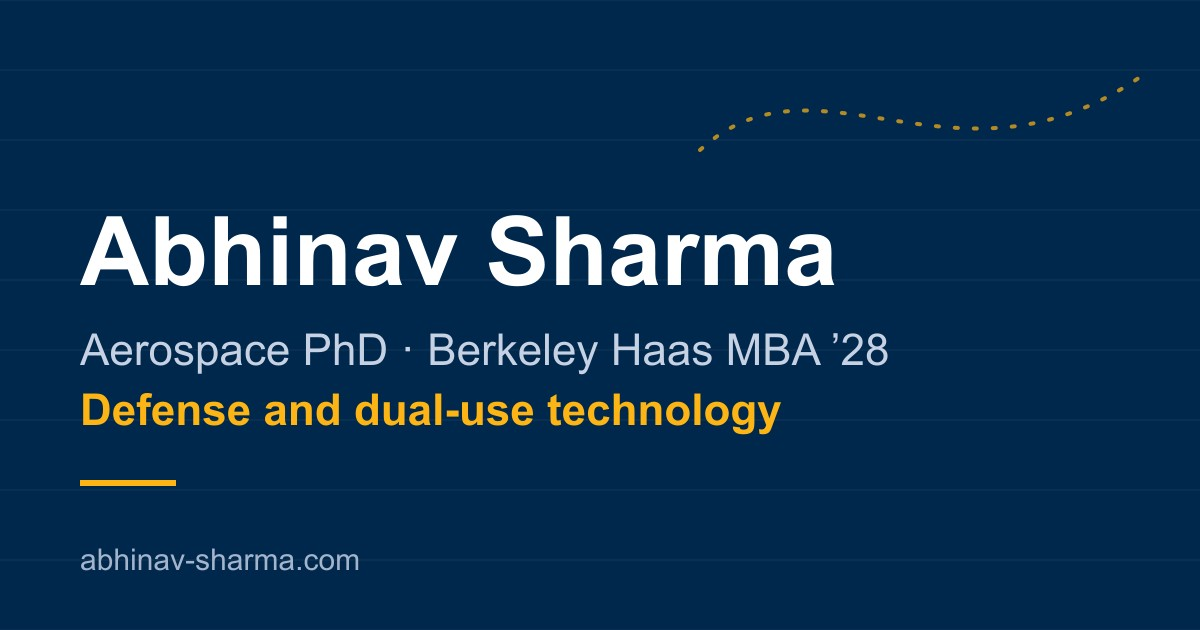
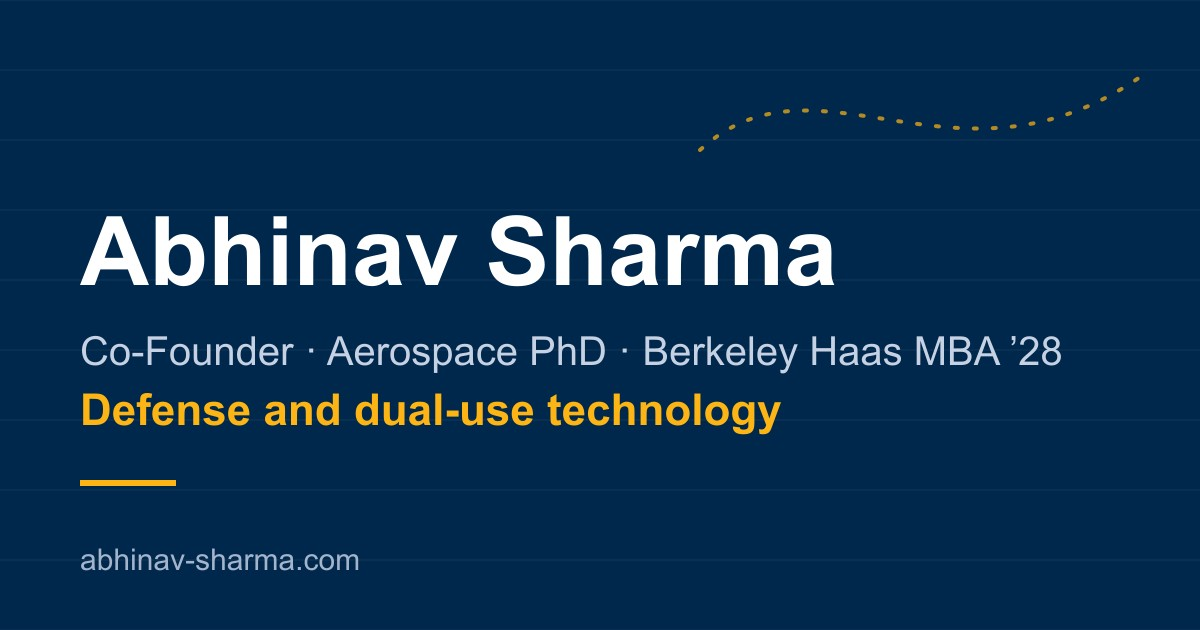
Apply founder and business-development positioning from the branding audit
Hero: two equal-weight statements led by what he did (found the
opportunities, led the team and the technical proposals that won Continuum
Dynamics $1.45M in NASA and DoD contracts, developed the software and analyses
himself) and continued with also a co-founder and Berkeley Haas MBA candidate.
The contract total is now attributed to the company.

Chips: lead with six years in R and D and business development. Projects:
reorder so the government wins lead and the ship simulation is last; card 1
says he assembled and led the team; card 3 names the competitive NASA SBIR
Phase I; card 4 drops the unconfirmed discipline list. Section heading is now
What I have won, led, and built. The direction and background copy no longer
frames him as still learning.

Metadata: title, description, social card, and image alt now say Co-Founder to
match the LinkedIn headline. The venture is not named.

Changed region(s): [[0.0617, 0.5127, 0.8942, 0.6032]]

diff --git a/index.html b/index.html
@@ -3,8 +3,8 @@
 <head>
 <meta charset="UTF-8">
 <meta name="viewport" content="width=device-width, initial-scale=1.0">
-<title>Abhinav Sharma | Aerospace Engineering PhD, Berkeley Haas MBA ’28</title>
-<meta name="description" content="Aerospace PhD (rotorcraft, simulation, optimization) with six years of NASA- and DoD-funded R&amp;D. Now at Berkeley Haas, focused on defense and dual-use technology.">
+<title>Abhinav Sharma | Co-Founder, Aerospace PhD, Berkeley Haas MBA ’28</title>
+<meta name="description" content="Co-founder, Berkeley Haas MBA candidate, aerospace PhD. Led proposals and technical work behind $1.45M in NASA and DoD contracts; focused on defense and dual-use technology.">
 <link rel="canonical" href="https://abhinav-sharma.com/">
 <link rel="icon" type="image/svg+xml" href="/favicon.svg">
 <link rel="apple-touch-icon" href="/apple-touch-icon.png">
@@ -14,20 +14,20 @@
 
 <meta property="og:type" content="website">
 <meta property="og:site_name" content="Abhinav Sharma">
-<meta property="og:title" content="Abhinav Sharma | Aerospace Engineering PhD, Berkeley Haas MBA ’28">
-<meta property="og:description" content="Aerospace PhD (rotorcraft, simulation, optimization) with six years of NASA- and DoD-funded R&amp;D. Now at Berkeley Haas, focused on defense and dual-use technology.">
+<meta property="og:title" content="Abhinav Sharma | Co-Founder, Aerospace PhD, Berkeley Haas MBA ’28">
+<meta property="og:description" content="Co-founder, Berkeley Haas MBA candidate, aerospace PhD. Led proposals and technical work behind $1.45M in NASA and DoD contracts; focused on defense and dual-use technology.">
 <meta property="og:url" content="https://abhinav-sharma.com/">
 <meta property="og:image" content="https://abhinav-sharma.com/og-image-v2.jpg">
 <meta property="og:image:width" content="1200">
 <meta property="og:image:height" content="630">
-<meta property="og:image:alt" content="Abhinav Sharma. Aerospace PhD, Berkeley Haas MBA ’28. Defense and dual-use technology.">
+<meta property="og:image:alt" content="Abhinav Sharma. Co-Founder, aerospace PhD, Berkeley Haas MBA ’28. Defense and dual-use technology.">
 <meta name="twitter:card" content="summary_large_image">
-<meta name="twitter:title" content="Abhinav Sharma | Aerospace Engineering PhD, Berkeley Haas MBA ’28">
-<meta name="twitter:description" content="Aerospace PhD (rotorcraft, simulation, optimization) with six years of NASA- and DoD-funded R&amp;D. Now at Berkeley Haas, focused on defense and dual-use technology.">
+<meta name="twitter:title" content="Abhinav Sharma | Co-Founder, Aerospace PhD, Berkeley Haas MBA ’28">
+<meta name="twitter:description" content="Co-founder, Berkeley Haas MBA candidate, aerospace PhD. Led proposals and technical work behind $1.45M in NASA and DoD contracts; focused on defense and dual-use technology.">
 <meta name="twitter:image" content="https://abhinav-sharma.com/og-image-v2.jpg">
-<meta name="twitter:image:alt" content="Abhinav Sharma. Aerospace PhD, Berkeley Haas MBA ’28. Defense and dual-use technology.">
+<meta name="twitter:image:alt" content="Abhinav Sharma. Co-Founder, aerospace PhD, Berkeley Haas MBA ’28. Defense and dual-use technology.">
 
-<script type="application/ld+json">{"@context":"https://schema.org","@type":"Person","name":"Abhinav Sharma","description":"Aerospace PhD (rotorcraft, simulation, optimization) with six years of NASA- and DoD-funded R&D. Now at Berkeley Haas, focused on defense and dual-use technology.","url":"https://abhinav-sharma.com","@id":"https://abhinav-sharma.com/#person","image":"https://abhinav-sharma.com/img/portrait.webp","jobTitle":"MBA Candidate","alumniOf":[{"@type":"CollegeOrUniversity","name":"University of Michigan","url":"https://umich.edu"},{"@type":"CollegeOrUniversity","name":"University of Iowa","url":"https://uiowa.edu"}],"affiliation":{"@type":"CollegeOrUniversity","name":"UC Berkeley Haas School of Business","url":"https://haas.berkeley.edu"},"memberOf":{"@type":"Organization","name":"Vertical Flight Society","url":"https://vtol.org"},"knowsAbout":["Rotorcraft flight dynamics","Multidisciplinary design optimization","Modeling and simulation","Flight controls","Advanced air mobility"],"sameAs":["https://www.linkedin.com/in/ab-sharma/","https://scholar.google.com/citations?user=qXDfIR0AAAAJ&hl=en"]}</script>
+<script type="application/ld+json">{"@context":"https://schema.org","@type":"Person","name":"Abhinav Sharma","description":"Co-founder, Berkeley Haas MBA candidate, aerospace PhD. Led proposals and technical work behind $1.45M in NASA and DoD contracts; focused on defense and dual-use technology.","url":"https://abhinav-sharma.com","@id":"https://abhinav-sharma.com/#person","image":"https://abhinav-sharma.com/img/portrait.webp","jobTitle":"MBA Candidate","alumniOf":[{"@type":"CollegeOrUniversity","name":"University of Michigan","url":"https://umich.edu"},{"@type":"CollegeOrUniversity","name":"University of Iowa","url":"https://uiowa.edu"}],"affiliation":{"@type":"CollegeOrUniversity","name":"UC Berkeley Haas School of Business","url":"https://haas.berkeley.edu"},"memberOf":{"@type":"Organization","name":"Vertical Flight Society","url":"https://vtol.org"},"knowsAbout":["Rotorcraft flight dynamics","Multidisciplinary design optimization","Modeling and simulation","Flight controls","Advanced air mobility"],"sameAs":["https://www.linkedin.com/in/ab-sharma/","https://scholar.google.com/citations?user=qXDfIR0AAAAJ&hl=en"]}</script>
 </head>
 <body class="">
 
@@ -53,8 +53,8 @@
       <div class="hero-copy">
         <p class="hero-name">Abhinav Sharma</p>
         <h1>
-          <span class="hero-line">I&rsquo;m an aerospace engineer who found the opportunities, led the proposals that won $1.45M in NASA and DoD contracts, and did the technical work.</span>
-          <span class="hero-line">Now I&rsquo;m a Berkeley Haas MBA candidate and co-founder, working to get defense technology from R&amp;D to the warfighter.</span>
+          <span class="hero-line">I found the opportunities, led the team and the technical proposals that won Continuum Dynamics $1.45M in NASA and DoD contracts, and developed the software and analyses myself.</span>
+          <span class="hero-line">I&rsquo;m also a co-founder and Berkeley Haas MBA candidate, working to get defense technology from R&amp;D to the warfighter.</span>
         </h1>
         <div class="hero-actions">
           <a class="btn btn-primary" href="#projects">View projects</a>
@@ -66,10 +66,10 @@
       </figure>
     </div>
     <ul class="hero-credibility">
-      <li>PhD in aerospace engineering</li>
-      <li>Research funded by the Navy, Army, and NASA</li>
+      <li>Six years in R&amp;D and business development</li>
       <li>Army STTR taken from Phase I to Phase II</li>
-      <li>Berkeley Haas MBA ’28</li>
+      <li>Research funded by the Navy, Army, and NASA</li>
+      <li>Aerospace PhD, Berkeley Haas MBA ’28</li>
     </ul>
   </div>
 </section>
@@ -79,7 +79,7 @@
     
 <div class="section-head">
   <p class="kicker">Selected projects</p>
-  <h2 class="section-title">What I&rsquo;ve built and led</h2>
+  <h2 class="section-title">What I&rsquo;ve won, led, and built</h2>
   
 </div>
     <div class="project-grid">
@@ -88,12 +88,38 @@
   <div class="project-card-body">
     <p class="project-card-context">U.S. Army STTR · Phase I to Phase II · 2022–2025</p>
     <h3>Adaptive Aircraft Design and Optimization</h3>
-    <p>I found the opportunity, assembled a six-person team across Continuum Dynamics and the University of Michigan, and led the proposals from start to finish. I also did the technical work: I developed a Python optimization framework for morphing UAVs, aircraft whose wings change shape in flight, with Army Research Laboratory researchers and delivered it to ARL for its morphing-aircraft research. The program grew from a ~$173K Phase I to a ~$1.15M Phase II.</p>
+    <p>I found the opportunity, assembled and led a six-person team across Continuum Dynamics and the University of Michigan, and led the technical proposals end to end. I also developed the Python optimization framework for morphing UAVs, aircraft whose wings change shape in flight, with Army Research Laboratory researchers and delivered it to ARL for its morphing-aircraft research. The program grew from a ~$173K Phase I to a ~$1.15M Phase II.</p>
     <p class="project-card-links"><a href="https://www.sbir.gov/awards/198170" target="_blank" rel="noopener">Phase I award<span aria-hidden="true"> &nearr;</span><span class="visually-hidden"> (opens in a new tab)</span></a><a href="https://www.sbir.gov/awards/209552" target="_blank" rel="noopener">Phase II award<span aria-hidden="true"> &nearr;</span><span class="visually-hidden"> (opens in a new tab)</span></a><a href="https://doi.org/10.2514/6.2025-3626" target="_blank" rel="noopener">AIAA Aviation 2025 paper<span aria-hidden="true"> &nearr;</span><span class="visually-hidden"> (opens in a new tab)</span></a></p>
   </div>
   <figure class="project-card-media">
     <img src="/img/morphing-aircraft-card.webp" srcset="/img/morphing-aircraft-card-sm.webp 640w, /img/morphing-aircraft-card.webp 1200w" sizes="(min-width: 861px) 50vw, 100vw" alt="AI-generated illustration of a twin-boom morphing UAV with ghost images of alternate wing shapes along a dashed orange trajectory." width="1200" height="675" loading="lazy">
     <figcaption>AI-generated illustration of a morphing-wing UAV whose trajectory and structure are optimized together. Not a specific aircraft.</figcaption>
+  </figure>
+</article>
+      
+<article class="project-card">
+  <div class="project-card-body">
+    <p class="project-card-context">NASA SBIR Phase I · 2021</p>
+    <h3>Designing the Aircraft and the Controller Together</h3>
+    <p>Designers often address flight-control requirements after the airframe is largely fixed. I led the technical proposal that won this competitive NASA SBIR Phase I (~$125K), then did the technical work: treating flight controls as part of the design from the start, using multidisciplinary design optimization (MDO) for an aircraft with distributed electric propulsion (DEP).</p>
+    <p class="project-card-links"><a href="https://www.sbir.gov/node/2116627" target="_blank" rel="noopener">NASA SBIR award<span aria-hidden="true"> &nearr;</span><span class="visually-hidden"> (opens in a new tab)</span></a><a href="https://doi.org/10.2514/6.2023-1364" target="_blank" rel="noopener">AIAA SciTech 2023 paper<span aria-hidden="true"> &nearr;</span><span class="visually-hidden"> (opens in a new tab)</span></a></p>
+  </div>
+  <figure class="project-card-media">
+    <img src="/img/dep-aircraft-card.webp" srcset="/img/dep-aircraft-card-sm.webp 640w, /img/dep-aircraft-card.webp 1200w" sizes="(min-width: 861px) 50vw, 100vw" alt="AI-generated illustration of a distributed electric propulsion aircraft on approach, with eight leading-edge propellers and white slipstream lines over the wing." width="1200" height="675" loading="lazy">
+    <figcaption>AI-generated illustration of a distributed electric propulsion concept, not a specific aircraft.</figcaption>
+  </figure>
+</article>
+      
+<article class="project-card">
+  <div class="project-card-body">
+    <p class="project-card-context">Continuum Dynamics · Research and commercial</p>
+    <h3>Advanced Air Mobility Modeling and Simulation</h3>
+    <p>I found the business: through networking and cold outreach, I won two advanced air mobility startups as clients, ~$100K in new revenue for Continuum Dynamics (clients unnamed). I then did the aircraft design and performance analyses for them.</p>
+    
+  </div>
+  <figure class="project-card-media">
+    <img src="/img/aam-tiltwing-card.webp" srcset="/img/aam-tiltwing-card-sm.webp 640w, /img/aam-tiltwing-card.webp 1200w" sizes="(min-width: 861px) 50vw, 100vw" alt="AI-generated illustration of a six-propeller tiltwing aircraft in transition flight, with airflow streamlines over the wing." width="1200" height="675" loading="lazy">
+    <figcaption>AI-generated illustration of a tiltwing concept, not a specific aircraft.</figcaption>
   </figure>
 </article>
       
@@ -109,32 +135,6 @@
     <figcaption>AI-generated illustration of a UH-60 over a moving flight deck. The UH-60A is the aircraft I modeled in my research.</figcaption>
   </figure>
 </article>
-      
-<article class="project-card">
-  <div class="project-card-body">
-    <p class="project-card-context">NASA SBIR Phase I · 2021</p>
-    <h3>Designing the Aircraft and the Controller Together</h3>
-    <p>Designers often address flight-control requirements after the airframe is largely fixed. I led the proposal that won this NASA SBIR Phase I, then did the technical work: treating flight controls as part of the design from the start, using multidisciplinary design optimization (MDO) for an aircraft with distributed electric propulsion (DEP).</p>
-    <p class="project-card-links"><a href="https://www.sbir.gov/node/2116627" target="_blank" rel="noopener">NASA SBIR award<span aria-hidden="true"> &nearr;</span><span class="visually-hidden"> (opens in a new tab)</span></a><a href="https://doi.org/10.2514/6.2023-1364" target="_blank" rel="noopener">AIAA SciTech 2023 paper<span aria-hidden="true"> &nearr;</span><span class="visually-hidden"> (opens in a new tab)</span></a></p>
-  </div>
-  <figure class="project-card-media">
-    <img src="/img/dep-aircraft-card.webp" srcset="/img/dep-aircraft-card-sm.webp 640w, /img/dep-aircraft-card.webp 1200w" sizes="(min-width: 861px) 50vw, 100vw" alt="AI-generated illustration of a distributed electric propulsion aircraft on approach, with eight leading-edge propellers and white slipstream lines over the wing." width="1200" height="675" loading="lazy">
-    <figcaption>AI-generated illustration of a distributed electric propulsion concept, not a specific aircraft.</figcaption>
-  </figure>
-</article>
-      
-<article class="project-card">
-  <div class="project-card-body">
-    <p class="project-card-context">Continuum Dynamics · Research and commercial</p>
-    <h3>Advanced Air Mobility Modeling and Simulation</h3>
-    <p>I found the business: through networking and cold outreach, I won two advanced air mobility startups as clients, ~$100K in new revenue for Continuum Dynamics (clients unnamed). I then did the aircraft design and performance analyses, spanning flight mechanics, interactional aerodynamics, controls, and performance.</p>
-    
-  </div>
-  <figure class="project-card-media">
-    <img src="/img/aam-tiltwing-card.webp" srcset="/img/aam-tiltwing-card-sm.webp 640w, /img/aam-tiltwing-card.webp 1200w" sizes="(min-width: 861px) 50vw, 100vw" alt="AI-generated illustration of a six-propeller tiltwing aircraft in transition flight, with airflow streamlines over the wing." width="1200" height="675" loading="lazy">
-    <figcaption>AI-generated illustration of a tiltwing concept, not a specific aircraft.</figcaption>
-  </figure>
-</article>
     </div>
   </div>
 </section>
@@ -145,12 +145,12 @@
 <div class="section-head">
   <p class="kicker">Current direction</p>
   <h2 class="section-title">What happens after the technology works</h2>
-  <p class="section-dek">After years developing technology, I got curious about who owns the problem, who pays for it, and why good technology stalls after R&amp;D.</p>
+  <p class="section-dek">I&rsquo;ve worked the contractor side of government R&amp;D. What I want to work on now is what happens after it: who owns the problem, who pays for it, and why good technology stalls.</p>
 </div>
     <div class="theme-grid">
-      <div class="theme-card"><h3>Defense and dual-use technology</h3><p>My starting point is R&amp;D funded by the Navy and Army. I&rsquo;m learning how defense capabilities are developed, bought, integrated, and fielded.</p></div>
+      <div class="theme-card"><h3>Defense and dual-use technology</h3><p>I know how defense R&amp;D gets funded and won: finding the opportunity, shaping the concept, and winning the award. I&rsquo;m now working on how capabilities are bought, integrated, and fielded.</p></div>
       <div class="theme-card"><h3>Autonomous and complex physical systems</h3><p>I&rsquo;ve worked on flight dynamics, controls, and design optimization for adaptive aircraft. I&rsquo;m interested in where those meet autonomy, software, and real-world deployment.</p></div>
-      <div class="theme-card"><h3>Technology transition and adoption</h3><p>I completed NSF I-Corps customer discovery with a team at Berkeley, interviewing customers to test assumptions.</p></div>
+      <div class="theme-card"><h3>Technology transition and adoption</h3><p>As a co-founder, I completed NSF I-Corps customer discovery with my team at Berkeley, interviewing customers to test assumptions.</p></div>
     </div>
   </div>
 </section>
@@ -164,7 +164,7 @@
   
 </div>
     <p>I did my PhD at the University of Michigan on shipboard helicopter operations, supported by the Office of Naval Research. I then spent six years at Continuum Dynamics, an applied aerospace R&amp;D firm, in R&amp;D and business development.</p>
-    <p>Engineering and business development gave me depth on the technical and government-contracting sides. Haas is helping with the rest: customer need, product, organization, and adoption.</p>
+    <p>Engineering and business development gave me depth on the technical and government-contracting sides. I&rsquo;m at Haas to close the gap between developing defense technology and getting it to the people who use it: customer need, product, organization, and adoption.</p>
     <p class="background-affiliation">Elected member, Vertical Flight Society Modeling &amp; Simulation Technical Committee</p>
   </div>
 </section>

diff --git a/pages/home.js b/pages/home.js
@@ -12,8 +12,8 @@ function hero() {
       <div class="hero-copy">
         <p class="hero-name">Abhinav Sharma</p>
         <h1>
-          <span class="hero-line">I&rsquo;m an aerospace engineer who found the opportunities, led the proposals that won $1.45M in NASA and DoD contracts, and did the technical work.</span>
-          <span class="hero-line">Now I&rsquo;m a Berkeley Haas MBA candidate and co-founder, working to get defense technology from R&amp;D to the warfighter.</span>
+          <span class="hero-line">I found the opportunities, led the team and the technical proposals that won Continuum Dynamics $1.45M in NASA and DoD contracts, and developed the software and analyses myself.</span>
+          <span class="hero-line">I&rsquo;m also a co-founder and Berkeley Haas MBA candidate, working to get defense technology from R&amp;D to the warfighter.</span>
         </h1>
         <div class="hero-actions">
           <a class="btn btn-primary" href="#projects">View projects</a>
@@ -38,7 +38,7 @@ function selectedProjects() {
   <div class="section-inner">
     ${sectionHead({
       kicker: 'Selected projects',
-      title: 'What I&rsquo;ve built and led',
+      title: 'What I&rsquo;ve won, led, and built',
     })}
     <div class="project-grid">
       ${ordered.map(projectCard).join('\n      ')}
@@ -51,7 +51,7 @@ function currentDirection() {
   const themes = [
     {
       title: 'Defense and dual-use technology',
-      body: 'My starting point is R&amp;D funded by the Navy and Army. I&rsquo;m learning how defense capabilities are developed, bought, integrated, and fielded.',
+      body: 'I know how defense R&amp;D gets funded and won: finding the opportunity, shaping the concept, and winning the award. I&rsquo;m now working on how capabilities are bought, integrated, and fielded.',
     },
     {
       title: 'Autonomous and complex physical systems',
@@ -59,7 +59,7 @@ function currentDirection() {
     },
     {
       title: 'Technology transition and adoption',
-      body: 'I completed NSF I-Corps customer discovery with a team at Berkeley, interviewing customers to test assumptions.',
+      body: 'As a co-founder, I completed NSF I-Corps customer discovery with my team at Berkeley, interviewing customers to test assumptions.',
     },
   ];
   return `
@@ -68,7 +68,7 @@ function currentDirection() {
     ${sectionHead({
       kicker: 'Current direction',
       title: 'What happens after the technology works',
-      dek: 'After years developing technology, I got curious about who owns the problem, who pays for it, and why good technology stalls after R&amp;D.',
+      dek: 'I&rsquo;ve worked the contractor side of government R&amp;D. What I want to work on now is what happens after it: who owns the problem, who pays for it, and why good technology stalls.',
     })}
     <div class="theme-grid">
       ${themes
@@ -85,7 +85,7 @@ function background() {
   <div class="section-inner background-copy">
     ${sectionHead({ kicker: 'Background', title: 'From aerospace engineering to Haas' })}
     <p>I did my PhD at the University of Michigan on shipboard helicopter operations, supported by the Office of Naval Research. I then spent six years at Continuum Dynamics, an applied aerospace R&amp;D firm, in R&amp;D and business development.</p>
-    <p>Engineering and business development gave me depth on the technical and government-contracting sides. Haas is helping with the rest: customer need, product, organization, and adoption.</p>
+    <p>Engineering and business development gave me depth on the technical and government-contracting sides. I&rsquo;m at Haas to close the gap between developing defense technology and getting it to the people who use it: customer need, product, organization, and adoption.</p>
     <p class="background-affiliation">Elected member, Vertical Flight Society Modeling &amp; Simulation Technical Committee</p>
   </div>
 </section>`;

diff --git a/data/projects.js b/data/projects.js
@@ -11,7 +11,7 @@ module.exports = [
     title: 'Adaptive Aircraft Design and Optimization',
     contextLine: 'U.S. Army STTR · Phase I to Phase II · 2022–2025',
     summary:
-      'I found the opportunity, assembled a six-person team across Continuum Dynamics and the University of Michigan, and led the proposals from start to finish. I also did the technical work: I developed a Python optimization framework for morphing UAVs, aircraft whose wings change shape in flight, with Army Research Laboratory researchers and delivered it to ARL for its morphing-aircraft research. The program grew from a ~$173K Phase I to a ~$1.15M Phase II.',
+      'I found the opportunity, assembled and led a six-person team across Continuum Dynamics and the University of Michigan, and led the technical proposals end to end. I also developed the Python optimization framework for morphing UAVs, aircraft whose wings change shape in flight, with Army Research Laboratory researchers and delivered it to ARL for its morphing-aircraft research. The program grew from a ~$173K Phase I to a ~$1.15M Phase II.',
     image: {
       base: 'morphing-aircraft',
       alt: 'AI-generated illustration of a twin-boom morphing UAV with ghost images of alternate wing shapes along a dashed orange trajectory.',
@@ -24,7 +24,7 @@ module.exports = [
     ],
   },
   {
-    order: 2,
+    order: 4,
     title: 'Simulating Helicopter Operations at Sea',
     contextLine: 'University of Michigan · PhD · Office of Naval Research–supported · 2017–2019',
     summary:
@@ -37,11 +37,11 @@ module.exports = [
     links: [{ label: 'Journal of Aircraft paper', href: 'https://doi.org/10.2514/1.C035973' }],
   },
   {
-    order: 3,
+    order: 2,
     title: 'Designing the Aircraft and the Controller Together',
     contextLine: 'NASA SBIR Phase I · 2021',
     summary:
-      'Designers often address flight-control requirements after the airframe is largely fixed. I led the proposal that won this NASA SBIR Phase I, then did the technical work: treating flight controls as part of the design from the start, using multidisciplinary design optimization (MDO) for an aircraft with distributed electric propulsion (DEP).',
+      'Designers often address flight-control requirements after the airframe is largely fixed. I led the technical proposal that won this competitive NASA SBIR Phase I (~$125K), then did the technical work: treating flight controls as part of the design from the start, using multidisciplinary design optimization (MDO) for an aircraft with distributed electric propulsion (DEP).',
     image: {
       base: 'dep-aircraft',
       alt: 'AI-generated illustration of a distributed electric propulsion aircraft on approach, with eight leading-edge propellers and white slipstream lines over the wing.',
@@ -55,11 +55,11 @@ module.exports = [
     ],
   },
   {
-    order: 4,
+    order: 3,
     title: 'Advanced Air Mobility Modeling and Simulation',
     contextLine: 'Continuum Dynamics · Research and commercial',
     summary:
-      'I found the business: through networking and cold outreach, I won two advanced air mobility startups as clients, ~$100K in new revenue for Continuum Dynamics (clients unnamed). I then did the aircraft design and performance analyses, spanning flight mechanics, interactional aerodynamics, controls, and performance.',
+      'I found the business: through networking and cold outreach, I won two advanced air mobility startups as clients, ~$100K in new revenue for Continuum Dynamics (clients unnamed). I then did the aircraft design and performance analyses for them.',
     image: {
       base: 'aam-tiltwing',
       alt: 'AI-generated illustration of a six-propeller tiltwing aircraft in transition flight, with airflow streamlines over the wing.',

diff --git a/404.html b/404.html
@@ -21,14 +21,14 @@
 <meta property="og:image" content="https://abhinav-sharma.com/og-image-v2.jpg">
 <meta property="og:image:width" content="1200">
 <meta property="og:image:height" content="630">
-<meta property="og:image:alt" content="Abhinav Sharma. Aerospace PhD, Berkeley Haas MBA ’28. Defense and dual-use technology.">
+<meta property="og:image:alt" content="Abhinav Sharma. Co-Founder, aerospace PhD, Berkeley Haas MBA ’28. Defense and dual-use technology.">
 <meta name="twitter:card" content="summary_large_image">
 <meta name="twitter:title" content="Page not found — Abhinav Sharma">
 <meta name="twitter:description" content="This page does not exist. Go to the home page of Abhinav Sharma.">
 <meta name="twitter:image" content="https://abhinav-sharma.com/og-image-v2.jpg">
-<meta name="twitter:image:alt" content="Abhinav Sharma. Aerospace PhD, Berkeley Haas MBA ’28. Defense and dual-use technology.">
+<meta name="twitter:image:alt" content="Abhinav Sharma. Co-Founder, aerospace PhD, Berkeley Haas MBA ’28. Defense and dual-use technology.">
 
-<script type="application/ld+json">{"@context":"https://schema.org","@type":"Person","name":"Abhinav Sharma","description":"Aerospace PhD (rotorcraft, simulation, optimization) with six years of NASA- and DoD-funded R&D. Now at Berkeley Haas, focused on defense and dual-use technology.","url":"https://abhinav-sharma.com","@id":"https://abhinav-sharma.com/#person","image":"https://abhinav-sharma.com/img/portrait.webp","jobTitle":"MBA Candidate","alumniOf":[{"@type":"CollegeOrUniversity","name":"University of Michigan","url":"https://umich.edu"},{"@type":"CollegeOrUniversity","name":"University of Iowa","url":"https://uiowa.edu"}],"affiliation":{"@type":"CollegeOrUniversity","name":"UC Berkeley Haas School of Business","url":"https://haas.berkeley.edu"},"memberOf":{"@type":"Organization","name":"Vertical Flight Society","url":"https://vtol.org"},"knowsAbout":["Rotorcraft flight dynamics","Multidisciplinary design optimization","Modeling and simulation","Flight controls","Advanced air mobility"],"sameAs":["https://www.linkedin.com/in/ab-sharma/","https://scholar.google.com/citations?user=qXDfIR0AAAAJ&hl=en"]}</script>
+<script type="application/ld+json">{"@context":"https://schema.org","@type":"Person","name":"Abhinav Sharma","description":"Co-founder, Berkeley Haas MBA candidate, aerospace PhD. Led proposals and technical work behind $1.45M in NASA and DoD contracts; focused on defense and dual-use technology.","url":"https://abhinav-sharma.com","@id":"https://abhinav-sharma.com/#person","image":"https://abhinav-sharma.com/img/portrait.webp","jobTitle":"MBA Candidate","alumniOf":[{"@type":"CollegeOrUniversity","name":"University of Michigan","url":"https://umich.edu"},{"@type":"CollegeOrUniversity","name":"University of Iowa","url":"https://uiowa.edu"}],"affiliation":{"@type":"CollegeOrUniversity","name":"UC Berkeley Haas School of Business","url":"https://haas.berkeley.edu"},"memberOf":{"@type":"Organization","name":"Vertical Flight Society","url":"https://vtol.org"},"knowsAbout":["Rotorcraft flight dynamics","Multidisciplinary design optimization","Modeling and simulation","Flight controls","Advanced air mobility"],"sameAs":["https://www.linkedin.com/in/ab-sharma/","https://scholar.google.com/citations?user=qXDfIR0AAAAJ&hl=en"]}</script>
 </head>
 <body class="">
 

diff --git a/data/site.js b/data/site.js
@@ -6,16 +6,16 @@ module.exports = {
   scholarUrl: 'https://scholar.google.com/citations?user=qXDfIR0AAAAJ&hl=en',
   siteUrl: 'https://abhinav-sharma.com',
 
-  defaultTitle: 'Abhinav Sharma | Aerospace Engineering PhD, Berkeley Haas MBA ’28',
+  defaultTitle: 'Abhinav Sharma | Co-Founder, Aerospace PhD, Berkeley Haas MBA ’28',
   defaultDescription:
-    'Aerospace PhD (rotorcraft, simulation, optimization) with six years of NASA- and DoD-funded R&D. Now at Berkeley Haas, focused on defense and dual-use technology.',
-  ogImageAlt: 'Abhinav Sharma. Aerospace PhD, Berkeley Haas MBA ’28. Defense and dual-use technology.',
+    'Co-founder, Berkeley Haas MBA candidate, aerospace PhD. Led proposals and technical work behind $1.45M in NASA and DoD contracts; focused on defense and dual-use technology.',
+  ogImageAlt: 'Abhinav Sharma. Co-Founder, aerospace PhD, Berkeley Haas MBA ’28. Defense and dual-use technology.',
 
   credibilityItems: [
-    'PhD in aerospace engineering',
-    'Research funded by the Navy, Army, and NASA',
+    'Six years in R&amp;D and business development',
     'Army STTR taken from Phase I to Phase II',
-    'Berkeley Haas MBA ’28',
+    'Research funded by the Navy, Army, and NASA',
+    'Aerospace PhD, Berkeley Haas MBA ’28',
   ],
 
   nav: [

diff --git a/lib/build-og-image.js b/lib/build-og-image.js
@@ -25,7 +25,7 @@ function svg() {
   ${gridLines}
   <path d="M700 150 C 820 40, 960 210, 1150 70" fill="none" stroke="${GOLD}" stroke-width="4" stroke-dasharray="3 16" stroke-linecap="round" opacity="0.7"/>
   <text x="80" y="285" font-family="Arial, Helvetica, sans-serif" font-size="96" font-weight="700" fill="${WHITE}">Abhinav Sharma</text>
-  <text x="80" y="365" font-family="Arial, Helvetica, sans-serif" font-size="44" fill="${SOFT}">Aerospace PhD · Berkeley Haas MBA ’28</text>
+  <text x="80" y="365" font-family="Arial, Helvetica, sans-serif" font-size="40" fill="${SOFT}">Co-Founder · Aerospace PhD · Berkeley Haas MBA ’28</text>
   <text x="80" y="425" font-family="Arial, Helvetica, sans-serif" font-size="44" font-weight="700" fill="${GOLD}">Defense and dual-use technology</text>
   <rect x="80" y="480" width="96" height="6" fill="${GOLD}"/>
   <text x="80" y="570" font-family="Arial, Helvetica, sans-serif" font-size="30" fill="${FAINT}">abhinav-sharma.com</text>
